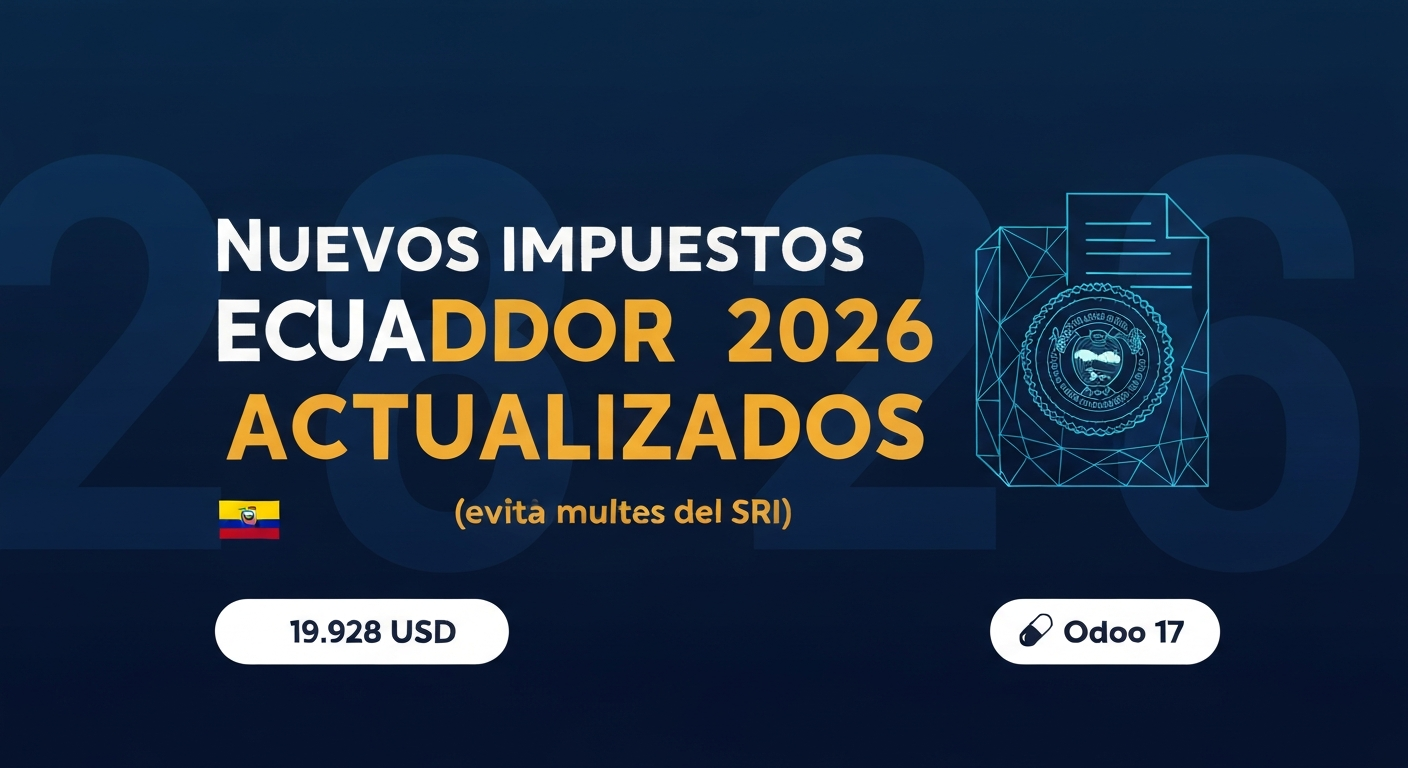
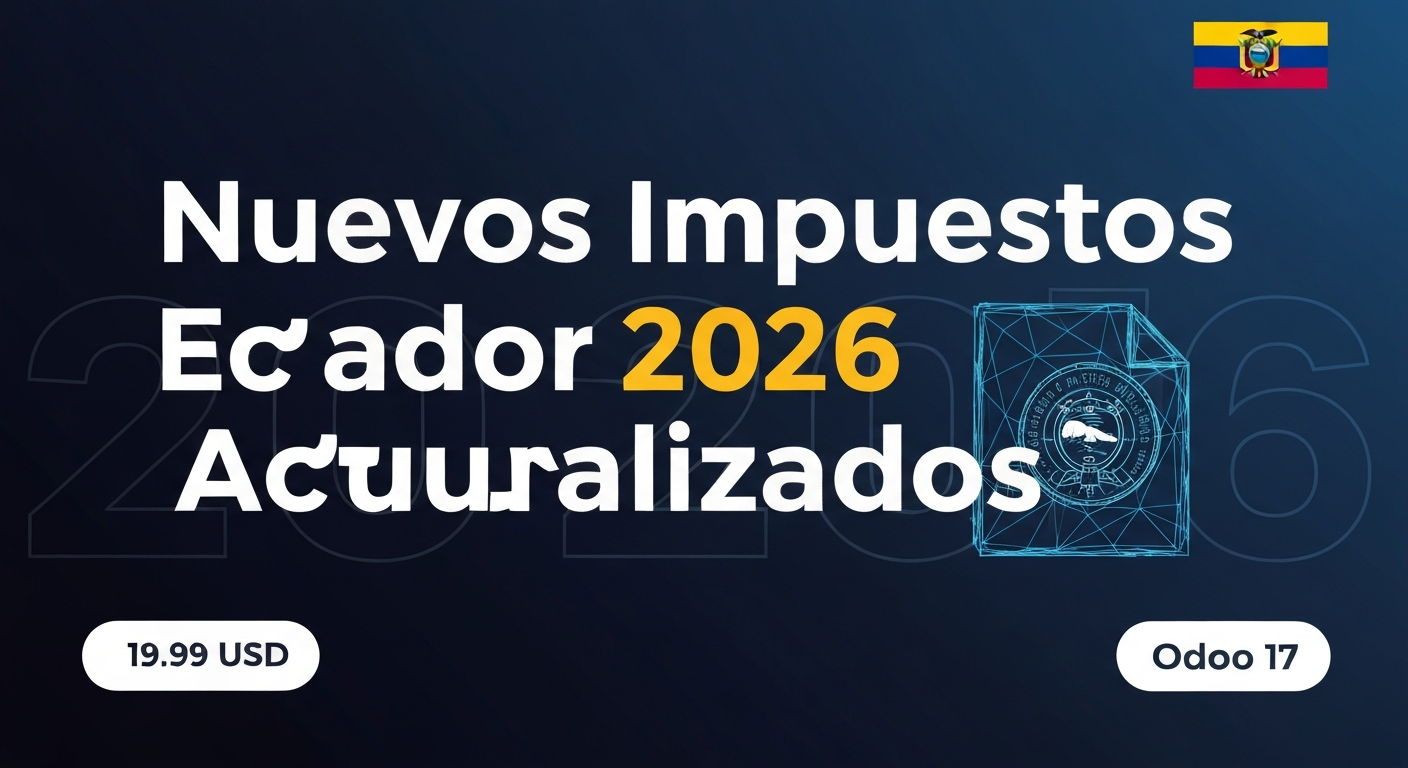
feat: add AI covers for themes ABCMiner & Trionica, fix SRI 2026 typo

diff --git a/theme_trionica/__manifest__.py b/theme_trionica/__manifest__.py
@@ -14,7 +14,7 @@
         'views/homepage.xml',
         'data/cron.xml',
     ],
-    'images': ['static/description/preview.png'],
+    'images': ['static/description/images/cover.png'],
     'installable': True,
     'auto_install': False,
     'application': False,

diff --git a/theme_abcminer/__manifest__.py b/theme_abcminer/__manifest__.py
@@ -12,6 +12,7 @@
         'views/assets.xml',
         'views/layout.xml',
     ],
+    'images': ['static/description/images/cover.png'],
     'installable': True,
     'application': False,
     'price': 59.99,
